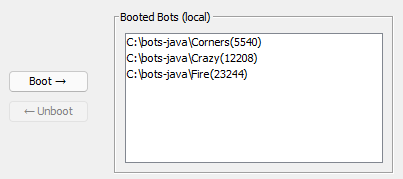
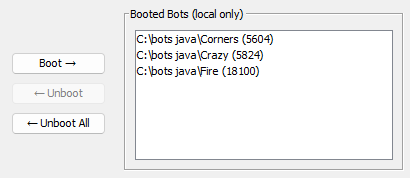
Updated documentation and images for the GUI application.

diff --git a/buildDocs/docs/articles/gui.md b/buildDocs/docs/articles/gui.md
@@ -29,7 +29,8 @@ The window contains these four lists:
 - Joined Bots (local/remote)
 - Selected Bots (battle participants)
 
-Besides these lists, the window contains 'Set game rules and type' at the top to select the [game type] for the battle:
+Besides these lists, the window contains 'Select game type' at the top to select the [game type] for the battle.
+Note that you can adjust the rules for a specific game type by clicking the 'Setup Rules' button.
 
 ![Setup rules and game type](../images/gui/setup-rules-and-game-type.png)
 
@@ -66,23 +67,34 @@ Note that it is possible to boot up multiple instances of
 the same bot type, so you can, for example, let 3 Corners bots battle each other.
 
 Each entry in the Booted Bots list contains the full file path for the bot type of the booted bot plus a process id
-within the parentheses after the file path.
+(pid) within the parentheses after the file path.
 
-When pressing 'Boot', a process will start-up running the individual bot selected from the Bot Directories.
-When pressing 'Unboot' the process for the selected bot will be stopped (or killed).
+When pressing 'Boot', a boot process will start up running the individual bots selected from the Bot Directories. Note
+that the bots themselves are running in their own processes (and own pid) beside the boot process listed in the list of
+booted bots.
+
+When pressing 'Unboot' the boot process of the selected bot will be stopped, which is effectively stopping the bot as
+well.
 
 ### Joined Bots
 
-The **Joined Bots** lists all bots that have joined the server locally or remotely, and hence are available for the
-battle. If you start a bot from the command line or within an IDE locally, it will also show up in the **Joined Bots**
-list.
+The **Joined Bots** lists all bots that have joined the server either locally or remotely, and hence are available for
+the battle. If you start a bot from the command line or within an IDE locally, it will also show up in the **Joined
+Bots** list.
 
 ![Joined Bots](../images/gui/joined-bots.png)
 
-Note that the server and GUI do not know the file path of the joined bots as the [booter] is not involved in
-this part. From the server´s perspective, the bots are joining on the server´s WebSocket. And the information about
-the bot is provided by the _bot handshake_ only at this point. The server cannot tell if a bot has joined from your
-local machine or remotely from outside either.
+The IP address and port for the joined bot is written in the parentheses, which also makes it possible to differ between
+multiple instances of the same bot, e.g. if Corners have been booted multiple times.
+
+Note that the file path of the bot is not available is the list of **Joined Bots**. The reason is that the server only
+listens for bots that join via the server´s WebSocket, and hence only knows the IP address and port, and the bot
+information provided via the _bot handshake_ sent by the bot itself.
+
+The booter (used by the GUI) does have this knowledge, _but only for bots that was started from the local file system_.
+Be aware that bots might not make use of the booter at all, but could be started some other way. E.g. you can write a
+Bot application running against the server's WebSocket with or without using the provided bot APIs, and just start it
+up from some process, or running within e.g. an application server locally or remotely.
 
 ### Selected Bots
 
@@ -90,17 +102,17 @@ The **Selected Bots** lists the joined bots you are selecting to participate in 
 
 ![Selected Bots](../images/gui/selected-bots.png)
 
-Note that the 'Start Battle' button will be disabled if the number of selected bots for the battle does not meet the
-minimum requirements defined by the rules ([game type]).
+Note that the 'Start Battle' button might be disabled if the number of selected bots for the battle does not meet the
+minimum requirements defined by the rules ([game type]), which is written in hover text for the 'Start Battle' button.
 
 ## Setup Rules
 
-It is possible to modify the rules for a specific [game type] for a battle similar to the original Robocode.
+Setup Rules makes it is possible to modify the rules for a specific [game type]:
 
 ![Setup Rules](../images/gui/setup-rules.png)
 
 Currently, these predefined game types exist: `classic`, `melee`, and `1v1`. But there is also a `custom` which you
-can use it for your purpose to experiment with the settings as you please.
+can use it for your own purpose to experiment with the settings as you please.
 
 Rule settings:
 
@@ -128,6 +140,31 @@ It is possible to change which server the GUI is connecting to from the menu:
 
 You can add URLs to multiple Robocode servers. The current selected URL will be the server that the GUI will use. And
 you can test if the server is running with the Test button.
+
+## Debug Options
+
+The current **Debug Options** contains a single option for enabling _initial start position_ for a bot, meaning that if
+a
+bot has set the `initialPosition` field in the JSON config file or programmatically via the `BotInfo` class, then the
+bot will be allowed to use the specified starting position.
+
+Note that this is an exception to the rule, as bots are not normally allowed to set a starting position. But the
+exception here is for debugging purposes only.
+
+## Sound Options
+
+The **Sound Options** let you enable and disable sounds, but also toggle the individual sound effect.
+
+![Sound Options](../images/gui/sound-options.png)
+
+## About box
+
+The about-box provides information about the version of the GUI application and built in booter and server.
+
+In addition, the Java version and vendor is also provided, which is useful information when e.g. filing a bug report.
+
+![About box](../images/gui/about-box.png)
+
 
 [^skip-turn]: ? "When a bot is skipping a turn, it is unable to change its speed or turning rates, and will continue
 using the speed and turn rates from the last commands successfully sent to the server."
